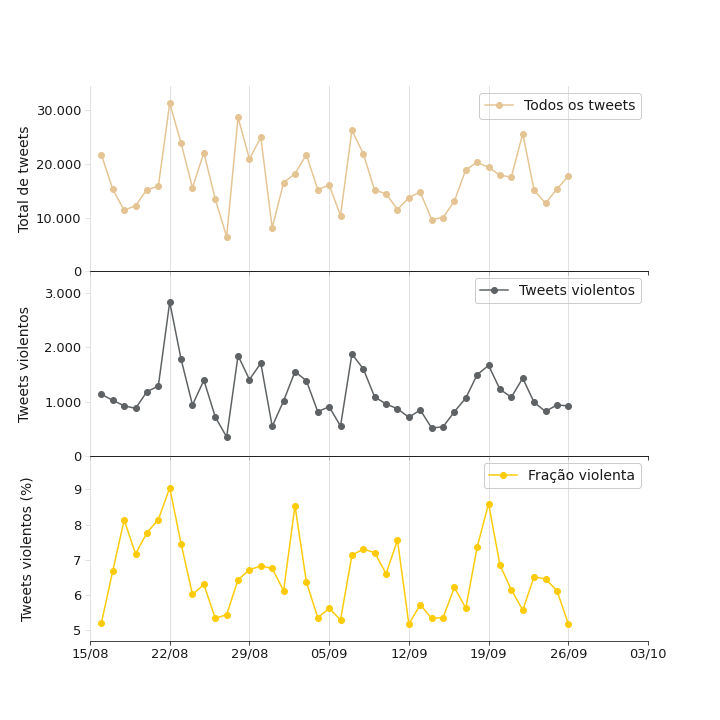
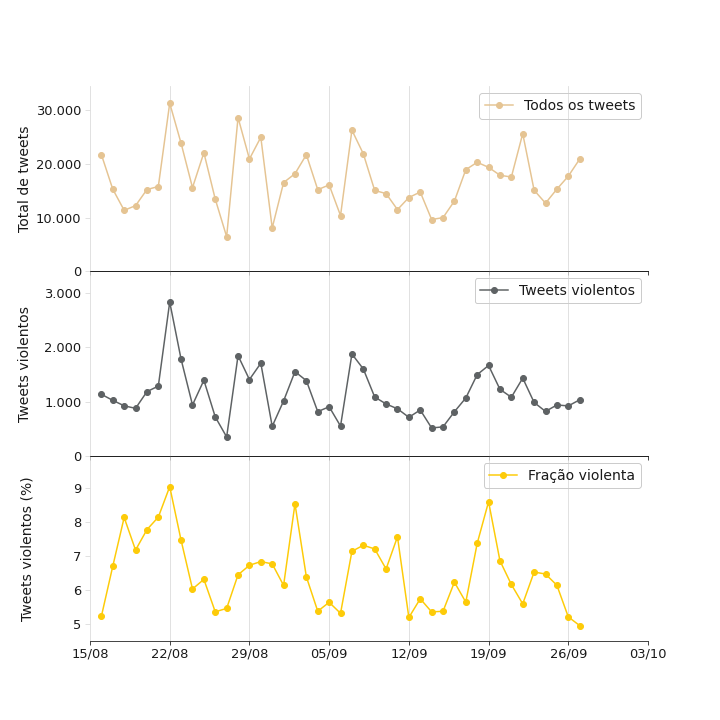
Auto-update webpage data >> 2022-09-28_04:02:23

diff --git a/webpage/data/data.js b/webpage/data/data.js
@@ -1,1 +1,1 @@
-data = '{"total_counts": 47576, "yesterday_counts": 920, "time_series_plot": "../webpage/data/tweets_agressivos_por_dia_feminino.png", "last_update": "2022-09-27T04:02:21"}'
+data = '{"total_counts": 48608, "yesterday_counts": 1033, "time_series_plot": "../webpage/data/tweets_agressivos_por_dia_feminino.png", "last_update": "2022-09-28T04:02:23"}'
